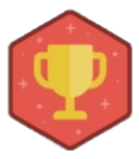
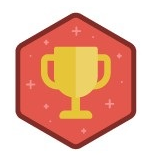
improved on badge design and add logic to trigger badges on refresh.

diff --git a/got-app/src/components/Home/Home.js b/got-app/src/components/Home/Home.js
@@ -5,7 +5,9 @@ import Bureau from '../../models/Bureau.js';
 import RegisterView from "./RegisterView";
 import AccountRegister from "../../models/AccountRegister";
 import Account from "../../models/Account";
-import BadgeModel from "../../models/Badge";
+import Badge from "../../models/Badge";
+import BadgeCollection from '../../models/BadgeCollection';
+import CustomerBadges from '../../models/CustomerBadges';
 
 class Home extends Component {
 
@@ -20,51 +22,67 @@ class Home extends Component {
         new Bureau("Equifax", 675, 400, 850)
       ],
       register: new AccountRegister(),
-      badgeCompendium : [
-        new BadgeModel(1, "Trophy", "Earned every month you are enrolled.", "/images/badges/trophy.png", 0)
-      ],
-      customerBadges : [
-        new BadgeModel(1, "Trophy", "Earned every month you are enrolled.", "/images/badges/trophy.png", 0)
-      ]
+      badge: new Badge(),
+      badgeCompendium : new BadgeCollection(),
+      customerBadges : new CustomerBadges()
     }
 
     this.state.register.accounts.push(new Account("Wells Fargo", "mortgage", 255000, [], 255000))
     this.state.register.accounts.push(new Account("Toyota Finance", "auto", 12500, [], 12500))
     this.state.register.accounts.push(new Account("CitiBank Visa", "creditcard", 2500, [], 10000))
     this.state.register.accounts.push(new Account("American ", "creditcard", 1450, [], 15000))
+
+    this.state.badgeCompendium.badgeCollection.push(this.state.badge.addTrophy());
+    this.state.badgeCompendium.badgeCollection.push(this.state.badge.addGoingUp());
+    this.state.badgeCompendium.badgeCollection.push(this.state.badge.addSuperStar());
+    this.state.badgeCompendium.badgeCollection.push(this.state.badge.addBlastOff());
+    this.state.badgeCompendium.badgeCollection.push(this.state.badge.addLoyalty());
+    this.state.badgeCompendium.badgeCollection.push(this.state.badge.addQuizMaster());
+    this.state.badgeCompendium.badgeCollection.push(this.state.badge.addRecruiter());
+    this.state.badgeCompendium.badgeCollection.push(this.state.badge.addTechnoMaster());
+    console.log(this.state.badgeCompendium.badgeCollection);
   }
 
   UpdateScores =  () => {
 
     var newb = [];
-
+    var stringify = require('json-stable-stringify');
     for(var i=0 ; i < this.state.bureaus.length ; i++) {
       newb.push(this.state.bureaus[i].refresh())
     }
+
+    this.state.customerBadges.updateBadgeCollection(this.state.bureaus)
 
     this.setState(
       {
         bureaus:newb
       }
-    )
+    );
+    
+    localStorage.setItem('customerBadges', stringify(this.state.customerBadges.customerBadgeCollection));
   }
 
 
   componentWillMount() {
-    console.log(this.state.badgeCompendium);
+    
+    var stringify = require('json-stable-stringify');
     var badgeCompendium = localStorage.getItem('badgeCompendium');
     var customerBadges = localStorage.getItem('customerBadges');
 
     if(badgeCompendium == null) {
-      localStorage.setItem('badgeCompendium', JSON.stringify(this.state.badgeCompendium));
+      
+      localStorage.setItem('badgeCompendium', stringify(this.state.badgeCompendium.badgeCollection));
     } else {
-      this.state.badgeCompendium = badgeCompendium;
+      
+      this.state.badgeCompendium.badgeCollection = JSON.parse(badgeCompendium);
     }
 
     if(customerBadges == null) {
-      localStorage.setItem('customerBadges', JSON.stringify(this.state.customerBadges));
+      
+      localStorage.setItem('customerBadges', stringify(this.state.customerBadges.customerBadgeCollection));
     } else {
-      this.state.customerBadges = customerBadges;
+      
+      this.state.customerBadges.customerBadgeCollection = JSON.parse(customerBadges);
     }
   }
 

diff --git a/got-app/src/models/CustomerBadges.js b/got-app/src/models/CustomerBadges.js
@@ -1,0 +1,56 @@
+import Badge from "./Badge";
+
+export default class CustomerBadges {
+    constructor() { 
+        this.customerBadgeCollection = [];
+        this.badge = new Badge();
+    }
+
+    add(badge) {
+        this.customerBadgeCollection.push(badge);
+        console.log(badge)
+    }
+
+    updateBadgeCollection(bureauData) {
+        if(bureauData[0].change > 5 || bureauData[1].change > 5 || bureauData[2].change > 5) {
+            if(this.containsBadge(this.customerBadgeCollection, this.badge.addGoingUp())) {
+                this.changeBadgeObjectCount("Going Up");
+            } else {
+                this.customerBadgeCollection.push(this.badge.addGoingUp());
+            }
+        }
+
+        if(bureauData[0].score > 700 || bureauData[1].score > 700 || bureauData[2].score > 700) {
+            if(this.containsBadge(this.customerBadgeCollection, this.badge.addTrophy())) {
+                this.changeBadgeObjectCount("Trophy");
+            } else {
+                this.customerBadgeCollection.push(this.badge.addTrophy());
+            }
+        }
+
+        if(this.containsBadge(this.customerBadgeCollection, this.badge.addLoyalty())) {
+            this.changeBadgeObjectCount("Loyalty");
+        } else {
+            this.customerBadgeCollection.push(this.badge.addLoyalty());
+        }
+    }
+
+    containsBadge(array, badge) {
+        for(var i=0; i < array.length; i++) {
+            if(array[i].name === badge.name) {
+                return true;
+            }
+        }
+        return false;
+    }
+
+    changeBadgeObjectCount(name) {
+        for (var i in this.customerBadgeCollection) {
+            if (this.customerBadgeCollection[i].name == name) {
+                this.customerBadgeCollection[i].count++;
+                break;
+            }
+        }
+    }
+    
+}

diff --git a/got-app/src/models/Badge.js b/got-app/src/models/Badge.js
@@ -1,9 +1,40 @@
 export default class Badge {
-    constructor(id, name, description, imageUrl, count) {
-        this.id = id;
+    constructor(name, description, imageUrl, count) {
         this.name = name;
         this.description = description;
         this.imageUrl = imageUrl;
         this.count = count;
+    }
+
+    addTrophy() {
+        return new Badge("Trophy", "Earned every month your credit score range is good or better.", "/images/badges/trophy.png", 0);
+    }
+
+    addGoingUp() {
+        return new Badge("Going Up", "Earned every time a score rises.", "/images/badges/thumbsup.png", 0);
+    }
+
+    addSuperStar() {
+        return new Badge("Super Star", "Earned every time credit utilization drops by 5%.", "/images/badges/star.png", 0);
+    }
+
+    addBlastOff() {
+        return new Badge("Blast Off", "Earned every time an account is reduced by 10%.", "/images/badges/rocket.png", 0); 
+    }
+
+    addLoyalty() {
+        return new Badge("Loyalty", "Earned every month you are enrolled.", "/images/badges/medal.png", 0);
+    }
+
+    addQuizMaster() {
+        return new Badge("Quiz Master", "Earned every month you answer all questions correctly.", "/images/badges/lightbulb.png", 0);
+    }
+
+    addRecruiter() {
+        return new Badge("Recruiter", "Earned every time you refer someone to application.", "/images/badges/leaf.png", 0);
+    }
+
+    addTechnoMaster() {
+        return new Badge("Techno Master", "Earned every month as long as you have refreshed your scores.", "/images/badges/computer.png", 0);
     }
 }

diff --git a/got-app/src/components/Trophy/Trophy.js b/got-app/src/components/Trophy/Trophy.js
@@ -2,24 +2,23 @@ import React, { Component } from 'react';
 import './Trophy.css';
 import Gallery from '../Gallery/Gallery.js';
 import Grid from '../Grid/Grid.js';
-import BadgeModel from '../../models/Badge.js';
 
 class Trophy extends Component {
   constructor(props) {
     super(props);
     this.state = {
-      badgeCompendium : [],
+      badgeCollection : [],
       customerBadges : []
     }
   }
 
   componentWillMount() {
     
-    var badgeCompendium = localStorage.getItem('badgeCompendium');
+    var badgeCollection = localStorage.getItem('badgeCompendium');
     var customerBadges = localStorage.getItem('customerBadges');
     
-    if(badgeCompendium == null) {
-      badgeCompendium = [];
+    if(badgeCollection == null) {
+      badgeCollection = [];
     }
 
     if(customerBadges == null) {
@@ -27,7 +26,7 @@ class Trophy extends Component {
     }
 
     this.setState({ 
-      badgeCompendium: JSON.parse(badgeCompendium), 
+      badgeCollection: JSON.parse(badgeCollection), 
       customerBadges: JSON.parse(customerBadges)
     });
   }
@@ -37,7 +36,7 @@ class Trophy extends Component {
         <h1>Trophy Page</h1>
         <Gallery badgeList={this.state.customerBadges} />
         <br />
-        <Grid badgeList={this.state.badgeCompendium} />
+        <Grid badgeList={this.state.badgeCollection} />
       </div>
     );
   }

diff --git a/got-app/src/components/Gallery/Gallery.js b/got-app/src/components/Gallery/Gallery.js
@@ -4,19 +4,26 @@ import './Gallery.css'
 class Gallery extends React.Component {
 
     renderImage(badge, i) {
-        return (
-            <div className="Gallery-image" key={i}>
-                <img src={badge.imageUrl} />
-            </div>
-        );
+        if(badge.count > 0) {
+            return (
+                <div className="Gallery-image" key={i}>
+                    <img src={badge.imageUrl} />x{badge.count}
+                </div>
+            );
+        } else {
+            return (
+                <div className="Gallery-image" key={i}>
+                    <img src={badge.imageUrl} />
+                </div>
+            );
+        }
+        
     }
 
     render() {
         return (
           <div className="Gallery">
-            <div className="Gallery-images">
                 { this.props.badgeList && this.props.badgeList.map((badge, i) => this.renderImage(badge, i))}
-            </div>
           </div>
         );
       }

diff --git a/got-app/src/components/Grid/Grid.js b/got-app/src/components/Grid/Grid.js
@@ -7,11 +7,6 @@ class Grid extends React.Component {
         super(props);
         this._columns = [
             {
-                key: 'id',
-                name: 'ID',
-                width: 40,
-            },
-            {
                 key: 'name',
                 name: 'Badge Name',
                 width: 200,

diff --git a/got-app/src/models/BadgeCollection.js b/got-app/src/models/BadgeCollection.js
@@ -1,0 +1,10 @@
+export default class BadgeCollection {
+    constructor() { 
+        this.badgeCollection = [];
+    }
+
+    add(badge) {
+        this.badgeCollection.push(badge);
+        console.log(badge)
+    }    
+}

diff --git a/got-app/src/components/Gallery/Gallery.css b/got-app/src/components/Gallery/Gallery.css
@@ -1,11 +1,8 @@
 .Gallery {
-    
-}
-
-.Gallery-images {
     content: "";
     display: table;
     clear: both;
+    width: 100%;
 }
 
 .Gallery-image {
